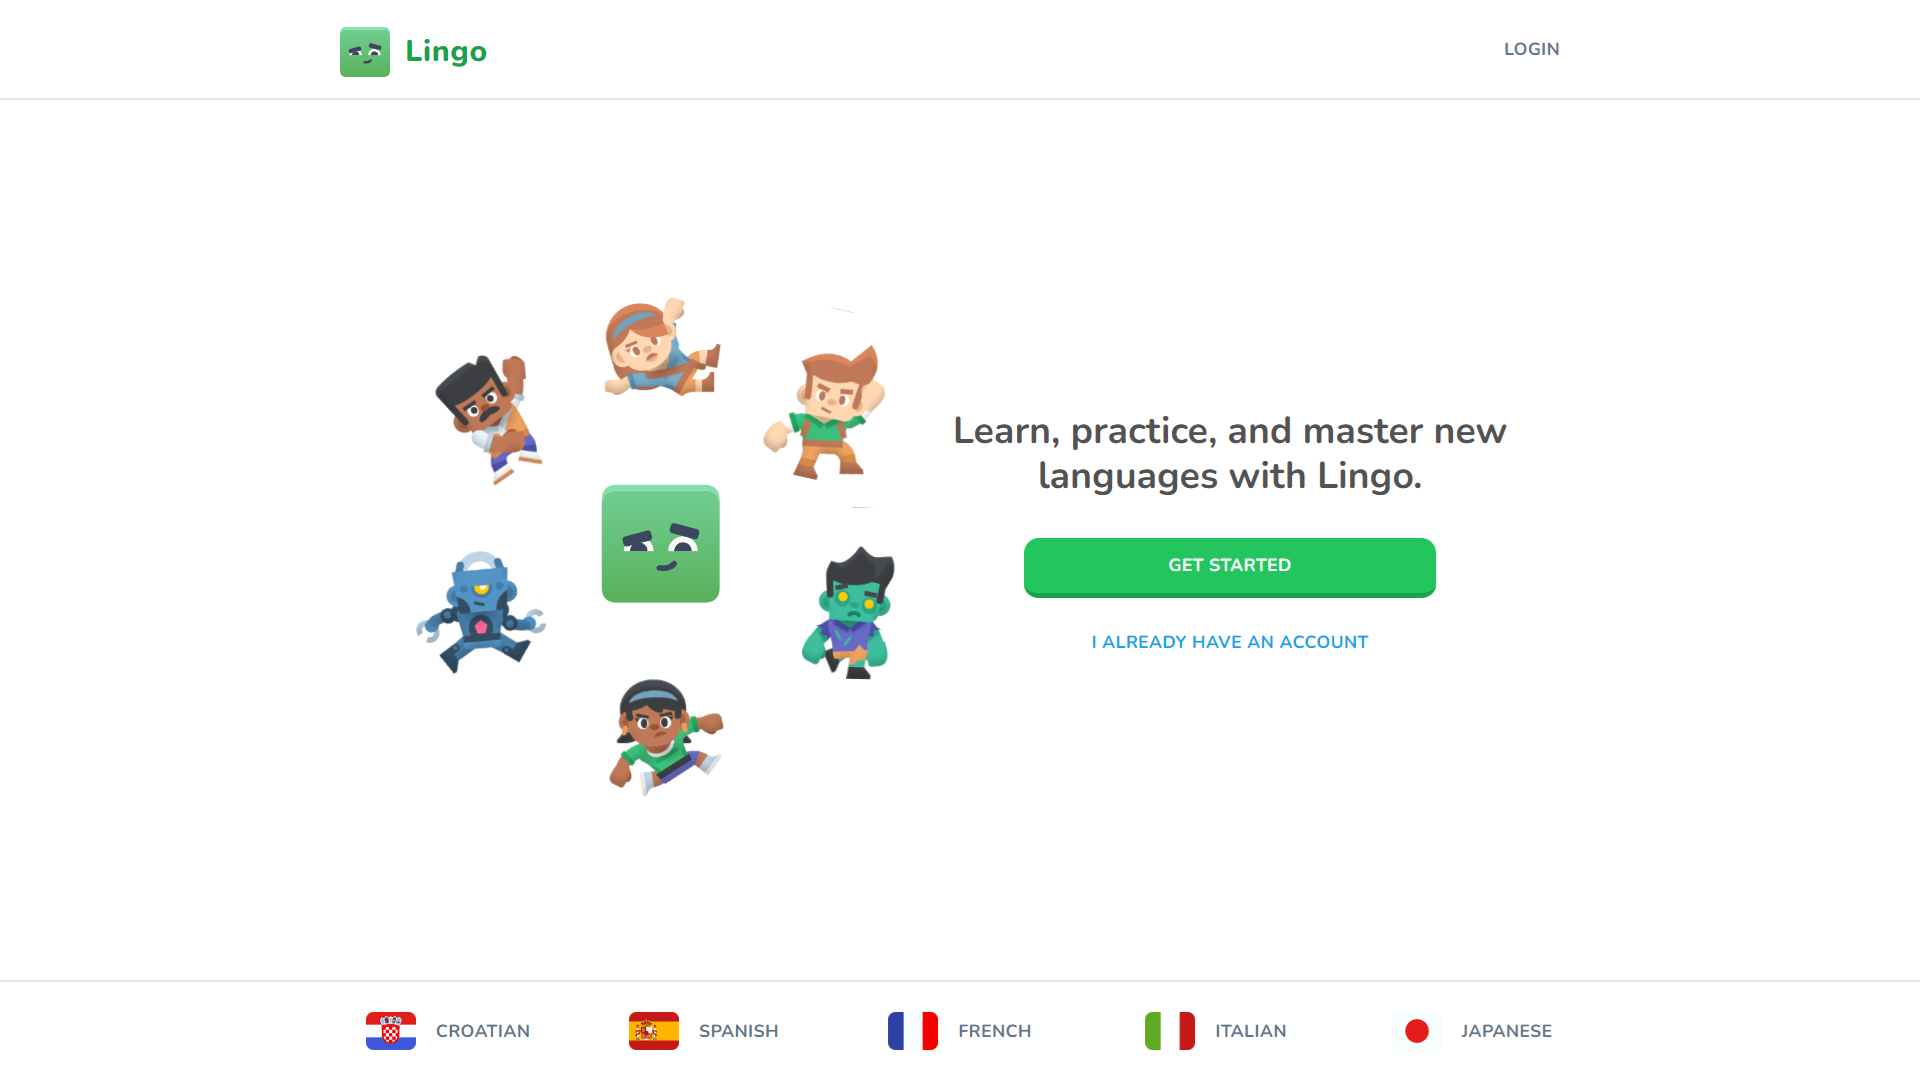
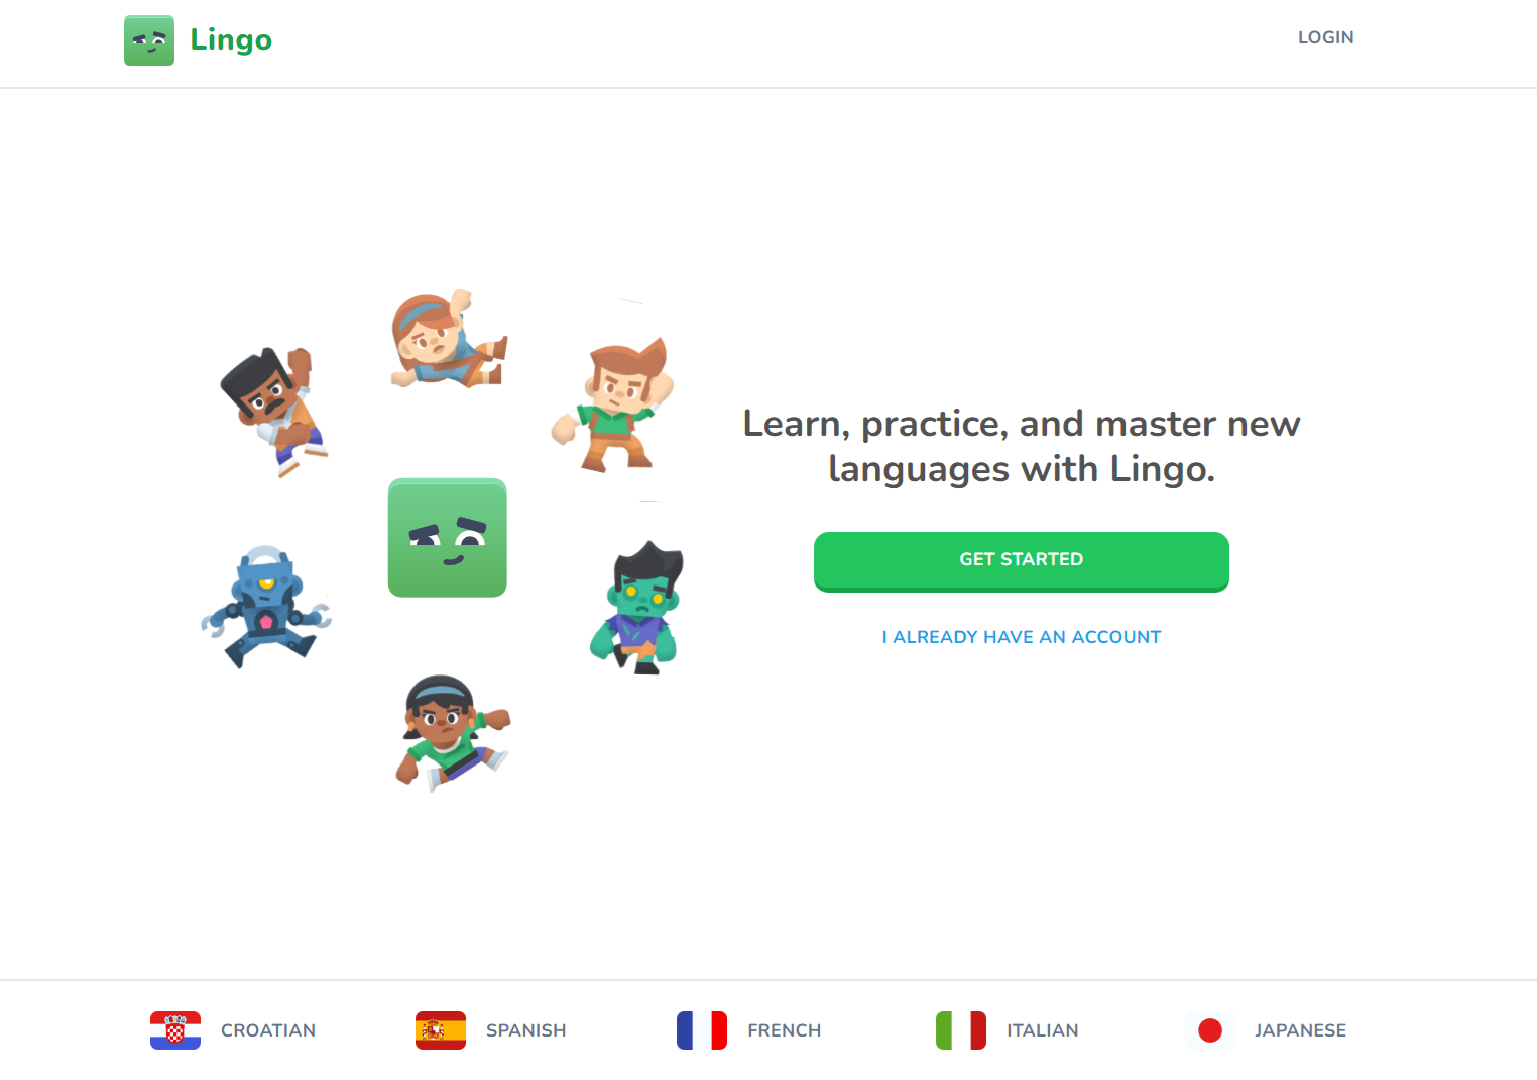
add Project Section

diff --git a/src/sections/Projects.tsx b/src/sections/Projects.tsx
@@ -1,46 +1,151 @@
-import darkSaasLandingPage from "@/assets/images/dark-saas-landing-page.png";
-import lightSaasLandingPage from "@/assets/images/light-saas-landing-page.png";
-import aiStartupLandingPage from "@/assets/images/ai-startup-landing-page.png";
+import Image from "next/image";
+import disclosure from "@/assets/disclosure.png";
+import lingo from "@/assets/lingo.png";
+import shoeMarshal from "@/assets/shoe-marshal.png";
+import figma from "@/assets/figma.png";
+import gericht from "@/assets/gericht.png";
+import gpt from "@/assets/gpt.png";
+import techfest from "@/assets/techfest.png";
+import moodIndigo from "@/assets/mood-indigo.png";
+import CheckIcon from "@/assets/icons/check-circle.svg";
+import ArrowUpRight from "@/assets/icons/arrow-up-right.svg";
+import grainImage from "@/assets/images/grain.jpg";
 
 const portfolioProjects = [
   {
-    company: "Acme Corp",
-    year: "2022",
-    title: "Dark Saas Landing Page",
-    results: [
-      { title: "Enhanced user experience by 40%" },
-      { title: "Improved site speed by 50%" },
-      { title: "Increased mobile traffic by 35%" },
-    ],
-    link: "https://youtu.be/4k7IdSLxh6w",
-    image: darkSaasLandingPage,
+    company: "TSS Consultancy",
+    year: "2024",
+    title: "Disclosure360",
+    results: [{ title: "1" }, { title: "2" }, { title: "3" }],
+    link: "https://disclosure360.in/",
+    image: disclosure,
   },
   {
-    company: "Innovative Co",
-    year: "2021",
-    title: "Light Saas Landing Page",
-    results: [
-      { title: "Boosted sales by 20%" },
-      { title: "Expanded customer reach by 35%" },
-      { title: "Increased brand awareness by 15%" },
-    ],
-    link: "https://youtu.be/7hi5zwO75yc",
-    image: lightSaasLandingPage,
+    company: "Techfest, IIT Bombay",
+    year: "2024",
+    title: "Competitions Manager",
+    results: [{ title: "1" }, { title: "2" }, { title: "3" }],
+    link: "https://techfest.org/",
+    image: techfest,
   },
   {
-    company: "Quantum Dynamics",
+    company: "Personal Project",
+    year: "2024",
+    title: "Lingo",
+    results: [{ title: "1" }, { title: "2" }, { title: "3" }],
+    link: "https://lingo-devam.vercel.app/",
+    image: lingo,
+  },
+  {
+    company: "Personal Project",
     year: "2023",
-    title: "AI Startup Landing Page",
-    results: [
-      { title: "Enhanced user experience by 40%" },
-      { title: "Improved site speed by 50%" },
-      { title: "Increased mobile traffic by 35%" },
-    ],
-    link: "https://youtu.be/Z7I5uSRHMHg",
-    image: aiStartupLandingPage,
+    title: "Shoe Marshal",
+    results: [{ title: "1" }, { title: "2" }, { title: "3" }],
+    link: "https://shoe-marshal-devam.vercel.app/",
+    image: shoeMarshal,
+  },
+  {
+    company: "Personal Project",
+    year: "2023",
+    title: "FigPro",
+    results: [{ title: "1" }, { title: "2" }, { title: "3" }],
+    link: "https://figma-clone-phi.vercel.app/",
+    image: figma,
+  },
+  {
+    company: "Personal Project",
+    year: "2023",
+    title: "Gericht Restaurant",
+    results: [{ title: "1" }, { title: "2" }, { title: "3" }],
+    link: "https://devambarbhaya.github.io/gericht-restaurant/",
+    image: gericht,
+  },
+  {
+    company: "Personal Project",
+    year: "2022",
+    title: "GPT-3 Explain",
+    results: [{ title: "1" }, { title: "2" }, { title: "3" }],
+    link: "https://devambarbhaya.github.io/gpt-3-explain/",
+    image: gpt,
+  },
+  {
+    company: "Mood Indigo",
+    year: "2022",
+    title: "Events Manager",
+    results: [{ title: "1" }, { title: "2" }, { title: "3" }],
+    link: "https://moodi.org/",
+    image: moodIndigo,
   },
 ];
 
 export const ProjectsSection = () => {
-  return <div>Projects Section</div>;
+  return (
+    <section className="pb-16">
+      <div className="container">
+        <div className="flex justify-center">
+          <p className="uppercase font-semibold tracking-widest bg-gradient-to-r from-emerald-300 to-sky-400 bg-clip-text text-transparent text-center">
+            Real-World Results
+          </p>
+        </div>
+        <h2 className="font-serif text-3xl md:text-5xl text-center mt-6">
+          Featured Projects
+        </h2>
+        <p className="text-center text-white/60 mt-4 max-w-md mx-auto md:text-lg lg:text-xl">
+          See how I transformed concepts into engaging digital experiences.
+        </p>
+        <div className="flex flex-col mt-10 gap-20 md:mt-20">
+          {portfolioProjects.map((project, index) => (
+            <div
+              key={index}
+              className="bg-gray-800 rounded-3xl relative z-0 overflow-hidden after:z-10 after:content-[''] after:absolute after:inset-0 after:outline-2 after:outline after:-outline-offset-2 after:rounded-3xl after:outline-white/20 px-8 pt-8 md:pt-12 md:px-10 lg:mt-16 lg:px-20 after:pointer-events-none"
+            >
+              <div
+                className="absolute inset-0 -z-10 opacity-5"
+                style={{
+                  backgroundImage: `url(${grainImage.src})`,
+                }}
+              ></div>
+              <div className="lg:grid lg:grid-cols-2 lg:gap-16">
+                <div className="lg:pb-16">
+                  <div className="bg-gradient-to-r from-emerald-300 to-sky-400 inline-flex font-bold uppercase tracking-widest text-sm gap-2 text-transparent bg-clip-text">
+                    <span>{project.company}</span>
+                    <span>&bull;</span>
+                    <span>{project.year}</span>
+                  </div>
+                  <h3 className="font-serif text-2xl mt-2 md:mt-5 md:text-4xl">
+                    {project.title}
+                  </h3>
+                  <hr className="border-t-2 border-white/5 mt-4" />
+                  <ul className="flex flex-col gap-4 mt-4 md:mt-5">
+                    {project.results.map((result, index) => (
+                      <li
+                        key={index}
+                        className="flex gap-2 text-sm md:text-base text-white/50"
+                      >
+                        <CheckIcon className="size-5 md:size-6" />
+                        <span>{result.title}</span>
+                      </li>
+                    ))}
+                  </ul>
+                  <a href={project.link} target="_blank">
+                    <button className="bg-white text-gray-950 h-12 w-full md:w-auto px-6 rounded-xl font-semibold inline-flex items-center justify-center gap-2 mt-8">
+                      <span>Visit Live Site</span>
+                      <ArrowUpRight className="size-4" />
+                    </button>
+                  </a>
+                </div>
+                <div className="relative">
+                  <Image
+                    src={project.image}
+                    alt={project.title}
+                    className="mt-8 -mb-4 md:-mb-0 lg:mt-0 lg:absolute lg:h-full lg:w-auto lg:max-w-none"
+                  />
+                </div>
+              </div>
+            </div>
+          ))}
+        </div>
+      </div>
+    </section>
+  );
 };

diff --git a/src/sections/Hero.tsx b/src/sections/Hero.tsx
@@ -8,7 +8,7 @@ import SparkleIcon from "@/assets/icons/sparkle.svg";
 
 export const HeroSection = () => {
   return (
-    <div className="py-32 md:py-48 lg:py-60 relative z-0 overflow-x-clip">
+    <div className="py-24 md:py-48 lg:py-60 relative z-0 overflow-x-clip">
       <div className="absolute inset-0 [mask-image:linear-gradient(to_bottom,transparent,black_10%,black_70%,transparent)]">
         <div
           className="absolute inset-0 -z-30 opacity-5"

diff --git a/src/app/page.tsx b/src/app/page.tsx
@@ -1,11 +1,13 @@
 import { Header } from "@/sections/Header";
 import { HeroSection } from "@/sections/Hero";
+import { ProjectsSection } from "@/sections/Projects";
 
 export default function Home() {
   return (
     <div>
       <Header />
       <HeroSection />
+      <ProjectsSection />
     </div>
   );
 }

diff --git a/src/app/globals.css b/src/app/globals.css
@@ -10,3 +10,9 @@
     @apply absolute inset-0 border-2 top-1/2 left-1/2 -translate-x-1/2 -translate-y-1/2 rounded-full border-emerald-300/5 shadow-[0_0_80px_inset] shadow-emerald-300/5;
   }
 }
+
+@layer utilities {
+  .container {
+    @apply lg:max-w-5xl;
+  }
+}
